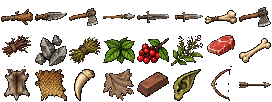
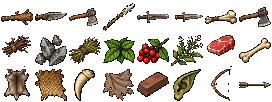
Fogueira guarda ao acender, morte volta sem abertura e lança refeita na escala do herói

Changed region(s): [[0.3529, 0.0294, 0.5, 0.2941]]

diff --git a/js/main.js b/js/main.js
@@ -23,9 +23,13 @@
       const min = Math.round((s.tempo || 0) / 60);
       m.append(botao('Continuar como ' + s.nome, () => continuar(s), 'ir'));
       m.append(el('p', 'nota', (s.titulo ? s.titulo + ' · ' : '') + min + ' min de vida · ' + nomeArea(s.area)));
-      const novo = botao('Nascer de novo', () => { novo.hidden = true; m.append(el('p', 'nota', 'A vida de ' + s.nome + ' acaba aqui. Tem certeza?'), botao('Sim, deixar ' + s.nome + ' para trás', () => { J.apagar(); nascer(); })); });
+      const novo = botao('Nascer de novo', () => { novo.hidden = true; m.append(el('p', 'nota', 'A vida de ' + s.nome + ' acaba aqui. Tem certeza?'), botao('Sim, deixar ' + s.nome + ' para trás', () => { J.apagar(); nascer(viuIntro()); })); });
       m.append(novo);
-    } else m.append(botao('Nascer', nascer, 'ir'));
+    } else if (viuIntro()) {
+      const ult = J.memorias()[0];
+      if (ult) m.append(botao('Acordar como ' + ult.nome, () => acordaComo(ult.nome), 'ir'));
+      m.append(botao(ult ? 'Acordar com outro nome' : 'Nascer', () => nascer(true), ult ? '' : 'ir'), botao('Ver a abertura', () => nascer(false)));
+    } else m.append(botao('Nascer', () => nascer(false), 'ir'));
     const mem = J.memorias(), l = $('memorias'); l.innerHTML = '';
     if (mem.length) { l.append(el('h3', '', 'Os que vieram antes')); for (const x of mem.slice(0, 4)) l.append(el('p', '', x.nome + (x.titulo ? ', ' + x.titulo : '') + ' · ' + Math.max(1, Math.round(x.tempo / 60)) + ' min · ' + x.mortes + ' mortes')); }
   }
@@ -33,13 +37,14 @@
 
   // ---------- nascimento ----------
   let nas = null;
-  function nascer() {
+  const viuIntro = () => { try { return !!localStorage.getItem('sina_intro') || J.memorias().length > 0; } catch (e) { return false; } };
+  function nascer(semIntro) {
     modo = 'nasce'; mostra('nasce'); telaCheia();
     if (window.Som) { Som.ligar(); Som.ambiente('cripta'); Som.musica(null); }
     $('n-pede').hidden = true; $('n-texto').textContent = ''; $('n-img').className = ''; $('n-luz').className = '';
     nas = { t: 0, i: -1, part: [], fim: false };
     requestAnimationFrame(() => { $('n-img').className = 'vai'; $('n-luz').className = 'vai'; });
-    proximaLinha();
+    if (semIntro === true) { nas.fim = true; pedeNome(); } else proximaLinha();
   }
   function proximaLinha() {
     if (!nas || nas.fim) return;
@@ -52,13 +57,18 @@
   function pedeNome() { $('n-texto').textContent = ''; $('n-pede').hidden = false; $('n-nome').value = ''; if (!toque) $('n-nome').focus(); }
   function daNome() {
     const n = $('n-nome').value.trim().slice(0, 16); if (!n) { $('n-nome').classList.add('falta'); $('n-nome').focus(); return; }
+    try { localStorage.setItem('sina_intro', '1'); } catch (e) { /* nada */ }
+    $('n-nome').blur(); acordaComo(n);
+  }
+  // abre os olhos na floresta, sem abertura: quem morre volta por aqui
+  function acordaComo(n) {
+    telaCheia(); fila.length = 0;
     J.save = J.novoSave(n); J.heroi = null; J.colhidos = {};
     J.entrarArea('floresta');
     const h = J.heroi; h.estado = 'nasce'; h.t = 0; h.nq = 0; h.x = h.ultimoSeguro.x;
     D.centrar(); D.escuro = 0.15; modo = 'jogo'; mostra(null); areaVista = null;
-    $('n-nome').blur();
     acorda = { t: 0, i: 0 };
-    vesteRetrato();
+    vesteRetrato(); J.salvar();
   }
   let acorda = null;
   function passoAcorda(dt) {
@@ -132,7 +142,7 @@
         const g = el('div', 'ficha');
         for (const [a, b] of [['Tempo de vida', tempo(s.tempo)], ['Maior título', s.titulo || 'nenhum'], ['Inimigos mortos', tot], ['Coisas colhidas', s.colhido], ['Última arma', C.ARMAS[s.arma].nome], ['Caiu em', nomeArea(s.area)]]) g.append(el('span', '', a), el('em', '', b));
         c.append(g, el('p', 'nota', x.pequeno ? x.pequeno + ' ainda era pequeno demais para continuar. Tudo começa do zero.' : 'Você não deixou filhos. Quem não deixa ninguém começa do zero.'));
-        c.append(botao('Nascer de novo', nascer, 'ir'), botao('Título', titulo));
+        c.append(botao('Acordar no começo', () => acordaComo(s.nome), 'ir'), botao('Acordar com outro nome', () => nascer(true)), botao('Título', titulo));
       } else {
         c.append(el('p', 'nota', s.nome + ' cresceu vendo você lutar. Carrega parte do que você sabia' + (s.lar && s.lar.bau && s.lar.bau.n ? ' e tudo o que estava na mochila.' : ' e um pouco do que estava na mochila.')));
         c.append(botao('Abrir os olhos', () => { J.heroi = null; s.x = null; J.entrarArea(s.area); D.centrar(); areaVista = null; modo = 'jogo'; mostra(null); }, 'ir'));
@@ -154,7 +164,10 @@
     else if (p.tipo === 'fogo') {
       const s = J.save;
       if (!s.fogos[p.o.id] && (s.inv.galho || 0) < 2) { sussurra('Faltam 2 galhos para acender.', 3); return; }
-      if (!s.fogos[p.o.id]) { s.inv.galho -= 2; som('fogo', 0.8); J.faiscas(p.o.x, p.o.y - 14, 26, '#ff9a40', 1.2, 'brasa'); }
+      if (!s.fogos[p.o.id]) {
+        // acender já guarda: se sair do jogo, a vida continua daqui
+        s.inv.galho -= 2; s.fogos[p.o.id] = 1; s.fogo = { area: s.area, id: p.o.id }; som('fogo', 0.8); J.faiscas(p.o.x, p.o.y - 14, 26, '#ff9a40', 1.2, 'brasa'); J.salvar(); guardou();
+      }
       if (s.area === 'lar' && s.lar && s.lar.lenha <= 0) s.lar.lenha = 4;
       if (J.inimigos.some((e) => e.vivo && !['vaga', 'volta', 'caido'].includes(e.estado) && Math.abs(e.x - J.heroi.x) < 320)) { sussurra('Não dá para deitar com eles por perto.', 3); return; }
       dormir(p.o);
@@ -162,6 +175,8 @@
   }
   // ---------- dormir: um momento de calma ----------
   let sono = null, pulaSono = false;
+  let guardT = 0;
+  function guardou() { $('guardou').classList.add('ver'); clearTimeout(guardT); guardT = setTimeout(() => $('guardou').classList.remove('ver'), 2600); }
   function dormir(f) { sono = { f, feito: false, disse: false }; pulaSono = false; solta(); J.comecaSono(f); $('hud').classList.add('calma'); $('toque').hidden = true; }
   function passoDormir(dt) {
     const h = J.heroi; if (!sono || h.estado !== 'dorme') return;
@@ -170,7 +185,7 @@
     if (Math.random() < 0.14) J.poe({ tipo: 'brasa', x: sono.f.x + (Math.random() - 0.5) * 18, y: sono.f.y - 18, vx: (Math.random() - 0.5) * 10, vy: -22 - Math.random() * 22, vida: 1.8, max: 1.8, cor: '#ffb060', tam: 1.4 });
     D.escuro = h.acordando ? Math.min(1, 0.5 + h.t * 0.45) : t < 1.7 ? 1 : Math.max(0.5, 1 - (t - 1.7) * 0.35);
     if ((t > 4.2 || h.acordando) && !sono.feito) { sono.feito = true; J.dormiu(sono.f); }
-    if (J.passoSono(dt, pulaSono)) { const f = sono.f; sono = null; D.escuro = null; $('hud').classList.remove('calma'); if (modo === 'jogo') { abreFogo(f); } }
+    if (J.passoSono(dt, pulaSono)) { const f = sono.f; sono = null; D.escuro = null; $('hud').classList.remove('calma'); guardou(); if (modo === 'jogo') { abreFogo(f); } }
   }
   addEventListener('pointerdown', () => { if (sono && J.heroi && J.heroi.estado === 'dorme') pulaSono = true; });
   let viajando = false;
@@ -464,5 +479,5 @@
   D.iniciar(cv);
   $('carrega').textContent = 'Moldando o barro...';
   D.carregar((k) => { $('carrega').textContent = 'Moldando o barro... ' + Math.round(k * 100) + '%'; }).then(() => { titulo(); requestAnimationFrame(laco); });
-  window.SINA = { dormir, abreFala, J, F, D, C, quadro, abreMenu, voltar, continuar, nascer, daNome, get modo() { return modo; } };
+  window.SINA = { acordaComo, titulo, dormir, abreFala, J, F, D, C, quadro, abreMenu, voltar, continuar, nascer, daNome, get modo() { return modo; } };
 })();

diff --git a/assets/floresta/arte.js b/assets/floresta/arte.js
@@ -1,1 +1,1 @@
-window.ARTE2={"props": {"arvorao": [0, 0, 314, 304], "arvore": [316, 0, 150, 168], "caverna": [468, 0, 179, 132], "arco": [0, 306, 123, 111], "circulo": [125, 306, 173, 100], "pilar": [300, 306, 53, 95], "chao": [0, 419, 580, 86], "totem": [582, 419, 54, 78], "placa": [638, 419, 31, 54], "pedrao": [671, 419, 78, 53], "barro": [0, 507, 74, 48], "lapide": [76, 507, 48, 44], "planta": [126, 507, 48, 40], "samambaia": [176, 507, 53, 39], "frutas": [231, 507, 47, 38], "ninho": [280, 507, 48, 38], "galhada": [330, 507, 47, 37], "cogumelos": [379, 507, 36, 32], "tronco": [417, 507, 80, 31], "ponte": [499, 507, 146, 28], "ossos2": [647, 507, 66, 27], "ossos": [715, 507, 45, 25], "fogo": [0, 557, 43, 21], "pedras": [45, 557, 35, 18]}, "monstros": {"lobo": {"w": 65, "h": 74, "n": 8}, "cobra": {"w": 58, "h": 66, "n": 8}, "zumbi": {"w": 63, "h": 72, "n": 8}, "goblin": {"w": 61, "h": 69, "n": 8}, "alfa": {"w": 98, "h": 112, "n": 8}, "rainha": {"w": 104, "h": 119, "n": 8}, "carcereiro": {"w": 78, "h": 89, "n": 8}, "chefe": {"w": 84, "h": 96, "n": 8}, "goblin_arco": {"w": 72, "h": 53, "n": 8}, "goblin_xama": {"w": 80, "h": 62, "n": 8}, "goblin_porrete": {"w": 70, "h": 80, "n": 8}, "goblin_guerreiro": {"w": 76, "h": 55, "n": 8}, "zumbi_mulher": {"w": 94, "h": 59, "n": 8}, "zumbi_machado": {"w": 72, "h": 67, "n": 8}, "zumbi_lanca": {"w": 132, "h": 66, "n": 8}, "zumbi_inchado": {"w": 68, "h": 74, "n": 8}, "lobo_rubro": {"w": 132, "h": 66, "n": 8}, "lobo_negro": {"w": 82, "h": 48, "n": 8}, "cobra_prata": {"w": 108, "h": 65, "n": 8}, "cobra_coral": {"w": 60, "h": 41, "n": 8}}, "itens": {"porrete": [0, 0, 34, 34], "faca": [34, 0, 34, 34], "machado": [68, 0, 34, 34], "lanca": [102, 0, 34, 34], "espada": [136, 0, 34, 34], "adaga": [170, 0, 34, 34], "osso_clava": [204, 0, 34, 34], "machado_ferro": [238, 0, 34, 34], "galho": [0, 34, 34, 34], "pedra": [34, 34, 34, 34], "fibra": [68, 34, 34, 34], "folha": [102, 34, 34, 34], "fruta": [136, 34, 34, 34], "erva": [170, 34, 34, 34], "carne": [204, 34, 34, 34], "osso": [238, 34, 34, 34], "couro": [0, 68, 34, 34], "pele": [34, 68, 34, 34], "presa": [68, 68, 34, 34], "trapo": [102, 68, 34, 34], "ferro": [136, 68, 34, 34], "orelha": [170, 68, 34, 34], "arco": [204, 68, 34, 34], "flecha": [238, 68, 34, 34]}, "armas": {"porrete": [0, 0, 30, 15], "faca": [32, 0, 17, 5], "machado": [51, 0, 30, 17], "lanca": [83, 0, 54, 11], "espada": [139, 0, 36, 13], "adaga": [177, 0, 21, 7], "osso_clava": [200, 0, 34, 15], "machado_ferro": [236, 0, 34, 21], "arco": [272, 0, 34, 55], "flecha": [308, 0, 26, 5]}, "casa": {"casa5": [0, 0, 173, 154], "casa4": [175, 0, 152, 124], "casa3": [329, 0, 124, 121], "cerca": [455, 0, 61, 102], "casa2": [0, 156, 120, 91], "casa1": [122, 156, 101, 69], "varal": [225, 156, 66, 60], "cepo": [293, 156, 38, 52], "berco": [333, 156, 46, 48], "horta": [381, 156, 79, 40], "estacas": [462, 156, 63, 35], "cama": [0, 249, 80, 35], "lenha": [82, 249, 55, 35]}};
+window.ARTE2={"props": {"arvorao": [0, 0, 314, 304], "arvore": [316, 0, 150, 168], "caverna": [468, 0, 179, 132], "arco": [0, 306, 123, 111], "circulo": [125, 306, 173, 100], "pilar": [300, 306, 53, 95], "chao": [0, 419, 580, 86], "totem": [582, 419, 54, 78], "placa": [638, 419, 31, 54], "pedrao": [671, 419, 78, 53], "barro": [0, 507, 74, 48], "lapide": [76, 507, 48, 44], "planta": [126, 507, 48, 40], "samambaia": [176, 507, 53, 39], "frutas": [231, 507, 47, 38], "ninho": [280, 507, 48, 38], "galhada": [330, 507, 47, 37], "cogumelos": [379, 507, 36, 32], "tronco": [417, 507, 80, 31], "ponte": [499, 507, 146, 28], "ossos2": [647, 507, 66, 27], "ossos": [715, 507, 45, 25], "fogo": [0, 557, 43, 21], "pedras": [45, 557, 35, 18]}, "monstros": {"lobo": {"w": 65, "h": 74, "n": 8}, "cobra": {"w": 58, "h": 66, "n": 8}, "zumbi": {"w": 63, "h": 72, "n": 8}, "goblin": {"w": 61, "h": 69, "n": 8}, "alfa": {"w": 98, "h": 112, "n": 8}, "rainha": {"w": 104, "h": 119, "n": 8}, "carcereiro": {"w": 78, "h": 89, "n": 8}, "chefe": {"w": 84, "h": 96, "n": 8}, "goblin_arco": {"w": 72, "h": 53, "n": 8}, "goblin_xama": {"w": 80, "h": 62, "n": 8}, "goblin_porrete": {"w": 70, "h": 80, "n": 8}, "goblin_guerreiro": {"w": 76, "h": 55, "n": 8}, "zumbi_mulher": {"w": 94, "h": 59, "n": 8}, "zumbi_machado": {"w": 72, "h": 67, "n": 8}, "zumbi_lanca": {"w": 132, "h": 66, "n": 8}, "zumbi_inchado": {"w": 68, "h": 74, "n": 8}, "lobo_rubro": {"w": 132, "h": 66, "n": 8}, "lobo_negro": {"w": 82, "h": 48, "n": 8}, "cobra_prata": {"w": 108, "h": 65, "n": 8}, "cobra_coral": {"w": 60, "h": 41, "n": 8}}, "itens": {"porrete": [0, 0, 34, 34], "faca": [34, 0, 34, 34], "machado": [68, 0, 34, 34], "lanca": [102, 0, 34, 34], "espada": [136, 0, 34, 34], "adaga": [170, 0, 34, 34], "osso_clava": [204, 0, 34, 34], "machado_ferro": [238, 0, 34, 34], "galho": [0, 34, 34, 34], "pedra": [34, 34, 34, 34], "fibra": [68, 34, 34, 34], "folha": [102, 34, 34, 34], "fruta": [136, 34, 34, 34], "erva": [170, 34, 34, 34], "carne": [204, 34, 34, 34], "osso": [238, 34, 34, 34], "couro": [0, 68, 34, 34], "pele": [34, 68, 34, 34], "presa": [68, 68, 34, 34], "trapo": [102, 68, 34, 34], "ferro": [136, 68, 34, 34], "orelha": [170, 68, 34, 34], "arco": [204, 68, 34, 34], "flecha": [238, 68, 34, 34]}, "armas": {"porrete": [0, 0, 30, 15], "faca": [32, 0, 17, 5], "machado": [51, 0, 30, 17], "lanca": [83, 0, 46, 11], "espada": [139, 0, 36, 13], "adaga": [177, 0, 21, 7], "osso_clava": [200, 0, 34, 15], "machado_ferro": [236, 0, 34, 21], "arco": [272, 0, 34, 55], "flecha": [308, 0, 26, 5]}, "casa": {"casa5": [0, 0, 173, 154], "casa4": [175, 0, 152, 124], "casa3": [329, 0, 124, 121], "cerca": [455, 0, 61, 102], "casa2": [0, 156, 120, 91], "casa1": [122, 156, 101, 69], "varal": [225, 156, 66, 60], "cepo": [293, 156, 38, 52], "berco": [333, 156, 46, 48], "horta": [381, 156, 79, 40], "estacas": [462, 156, 63, 35], "cama": [0, 249, 80, 35], "lenha": [82, 249, 55, 35]}};

diff --git a/js/desenho.js b/js/desenho.js
@@ -10,7 +10,7 @@
   const cam = (D.cam = { x: 0, y: 0, olha: 0 });
   let tempo = 0;
   const img = {}; // nome -> imagem
-  const carregaImg = (src) => new Promise((ok) => { const i = new Image(); i.onload = () => ok(i); i.onerror = () => { console.warn('faltou', src); ok(null); }; i.src = src + '?v=5'; });
+  const carregaImg = (src) => new Promise((ok) => { const i = new Image(); i.onload = () => ok(i); i.onerror = () => { console.warn('faltou', src); ok(null); }; i.src = src + '?v=7'; });
 
   D.iniciar = function (canvas) {
     cv = canvas; ctx = cv.getContext('2d');
@@ -191,6 +191,17 @@
     cima: [[32, 53, 140, 1], [58, 18, -84], [63, 28, -50]],
     baixo: [[57, 64, 88]], dor: [[56, 45, 70], [56, 45, 70], [55, 45, 70]],
   };
+  // a lança tem jeito próprio: em pé ao lado do corpo, deitada na corrida, reta na estocada (a mão corre pelo cabo)
+  const MAO_LANCA = {
+    parado: [[63, 56, -84, 0, 24], [63, 56, -84, 0, 24], [63, 56, -84, 0, 24], [63, 56, -84, 0, 24]],
+    correr: [[65, 47, -12, 0, 20], [68, 42, -14, 0, 20], [68, 41, -15, 0, 20], [67, 45, -13, 0, 20], [62, 48, -11, 0, 20], [69, 43, -13, 0, 20], [71, 41, -15, 0, 20], [70, 44, -14, 0, 20]],
+    golpe1: [[38, 41, -4, 1, 26], [34, 40, -3, 1, 28], [78, 38, 1, 0, 12], [69, 41, 3, 0, 16]],
+    golpe2: [[36, 46, -10, 1, 26], [36, 18, -24, 0, 18], [33, 20, -60, 0, 20]],
+    golpe3: [[27, 21, -118, 1, 18], [26, 18, -100, 1, 18], [68, 81, 14, 0, 14], [74, 81, 10, 0, 14]],
+    pulo: [[68, 51, -26, 0, 20], [63, 24, -62, 0, 20], [66, 27, -56, 0, 20], [66, 34, -44, 0, 20], [57, 40, -30, 0, 20], [40, 50, -20, 1, 22]],
+    cima: [[40, 53, -84, 1, 26], [58, 18, -88, 0, 12], [63, 28, -84, 0, 16]],
+    baixo: [[57, 60, 89, 0, 14]], dor: [[56, 48, 40, 0, 20], [56, 48, 40, 0, 20], [55, 48, 40, 0, 20]],
+  };
   const PE = 85;
   // qual pose mostrar agora
   function pose(h) {
@@ -211,6 +222,10 @@
       case 'golpe':
         if (h.dirGolpe === 'cima') return ['cima', k < 0.22 ? 0 : k < 0.7 ? 1 : 2];
         if (h.dirGolpe === 'baixo') return ['baixo', 0];
+        if (h.ficha.arma.estoca) { // estocadas: a segunda recolhe menos, a terceira entra mais
+          if (h.combo === 2) return ['golpe1', k < 0.08 ? 3 : k < 0.2 ? 1 : k < 0.72 ? 2 : 3];
+          return ['golpe1', k < (h.combo === 3 ? 0.22 : 0.1) ? 0 : k < (h.combo === 3 ? 0.34 : 0.24) ? 1 : k < 0.76 ? 2 : 3];
+        }
         if (h.combo === 2) return ['golpe2', k < 0.24 ? 0 : k < 0.72 ? 1 : 2];
         if (h.combo === 3) return ['golpe3', k < 0.18 ? 0 : k < 0.32 ? 1 : k < 0.78 ? 2 : 3];
         return ['golpe1', k < 0.1 ? 0 : k < 0.24 ? 1 : k < 0.72 ? 2 : 3];
@@ -225,8 +240,8 @@
     const k = a[0] + Math.min(a[1] - 1, n), sx = (k % B.cols) * B.q, sy = Math.floor(k / B.cols) * B.q;
     q.save(); q.translate(Math.round(x), Math.round(y)); q.scale((o && o.dir) || 1, 1);
     if (o && o.sx) q.scale(o.sx, o.sy);
-    const arma = o && o.arma, m = arma && MAO[anim] && MAO[anim][Math.min(MAO[anim].length - 1, n)];
-    const poeArma = () => { const p = A2.armas && A2.armas[arma]; if (!p) return; q.save(); q.translate(m[0] - 50, m[1] - PE); q.rotate(((m[2] + (o.giro || 0)) * Math.PI) / 180); const pega = arma === 'lanca' ? 18 : arma === 'machado' || arma === 'machado_ferro' ? 8 : 5; q.drawImage(img.armas, p[0], p[1], p[2], p[3], -pega, -Math.round(arma === 'machado' || arma === 'machado_ferro' ? p[3] * 0.4 : p[3] / 2), p[2], p[3]); q.restore(); };
+    const arma = o && o.arma, tab = arma === 'lanca' ? MAO_LANCA : MAO, m = arma && tab[anim] && tab[anim][Math.min(tab[anim].length - 1, n)];
+    const poeArma = () => { const p = A2.armas && A2.armas[arma]; if (!p) return; q.save(); q.translate(m[0] - 50, m[1] - PE); q.rotate(((m[2] + (o.giro || 0)) * Math.PI) / 180); const pega = arma === 'lanca' ? m[4] : arma === 'machado' || arma === 'machado_ferro' ? 8 : 5; q.drawImage(img.armas, p[0], p[1], p[2], p[3], -pega, -Math.round(arma === 'machado' || arma === 'machado_ferro' ? p[3] * 0.4 : p[3] / 2), p[2], p[3]); q.restore(); };
     if (m && m[3]) poeArma();
     q.drawImage((o && o.sil ? silhueta(im, o.sil, 'h' + roupa) : im), sx, sy, B.q, B.q, -50, -PE, B.q, B.q);
     if (m && !m[3]) poeArma();
@@ -491,7 +506,7 @@
     quadroGente('mulher', a, n, H.x, H.y + 1, { dir: H.dir, sy: deita ? 1 + Math.sin(tempo * 1.5 + 1) * 0.025 : 1, branco: H.tDor > 0.2 ? 0.7 : 0, a: H.inv > 0 && H.tDor <= 0 && Math.floor(H.inv * 16) % 2 ? 0.6 : 1 });
     brilhos.push([H.x, H.y - 30, 70, '255,214,170', 0.35]);
     const D2 = J.save.hum;
-    if (D2 && D2.lanca && ['parado', 'correr'].includes(a) && A2.armas.lanca) { const p = A2.armas.lanca; g.save(); g.translate(H.x + H.dir * 6, H.y - 30); g.scale(H.dir, 1); g.rotate(-1.2); g.drawImage(img.armas, p[0], p[1], p[2], p[3], -18, -p[3] / 2, p[2], p[3]); g.restore(); }
+    if (D2 && D2.lanca && ['parado', 'correr'].includes(a) && A2.armas.lanca) { const p = A2.armas.lanca; g.save(); g.translate(Math.round(H.x + H.dir * 11), Math.round(H.y - 29)); g.scale(H.dir, 1); g.rotate(a === 'correr' ? -0.3 : -1.42); g.drawImage(img.armas, p[0], p[1], p[2], p[3], -22, -Math.round(p[3] / 2), p[2], p[3]); g.restore(); }
     if (H.caida) { g.fillStyle = '#0a0808d0'; g.fillRect(H.x - 18, H.y - 46, 36, 4); g.fillStyle = '#ff9a6a'; g.fillRect(H.x - 17, H.y - 45, 34 * Math.max(0, H.tCaida / 25), 2); }
     else if (H.hp < H.hpMax) { g.fillStyle = '#0a0808d0'; g.fillRect(H.x - 14, H.y - 66, 28, 4); g.fillStyle = '#d8a06a'; g.fillRect(H.x - 13, H.y - 65, 26 * (H.hp / H.hpMax), 2); }
   }

diff --git a/index.html b/index.html
@@ -7,7 +7,7 @@
 <link rel="preconnect" href="https://fonts.googleapis.com">
 <link rel="preconnect" href="https://fonts.gstatic.com" crossorigin>
 <link rel="stylesheet" href="https://fonts.googleapis.com/css2?family=Cinzel:wght@500;700;900&family=Crimson+Pro:ital,wght@0,400;0,600;1,400&display=swap">
-<link rel="stylesheet" href="css/jogo.css?v=6">
+<link rel="stylesheet" href="css/jogo.css?v=7">
 </head>
 <body>
 <canvas id="c"></canvas>
@@ -28,6 +28,7 @@
   <button id="h-mochila" title="Mochila (I)">Mochila</button>
   <div id="chefe" hidden><div id="chefe-nome"></div><div class="barra" id="b-chefe"><i></i><u></u></div></div>
   <div id="usar" hidden></div>
+  <div id="guardou">Jogo guardado</div>
   <div id="sussurro"></div>
   <div id="area"></div>
   <div id="conquista"></div>
@@ -94,17 +95,17 @@
 </div>
 <div id="veu"></div>
 
-<script src="assets/barro/barro.js?v=6"></script>
-<script src="assets/barro/gente.js?v=6"></script>
-<script src="assets/floresta/arte.js?v=6"></script>
-<script src="js/som.js?v=6"></script>
-<script src="js/dados.js?v=6"></script>
-<script src="js/fase.js?v=6"></script>
-<script src="js/motor.js?v=6"></script>
-<script src="js/bando.js?v=6"></script>
-<script src="js/donos.js?v=6"></script>
-<script src="js/lar.js?v=6"></script>
-<script src="js/desenho.js?v=6"></script>
-<script src="js/main.js?v=6"></script>
+<script src="assets/barro/barro.js?v=7"></script>
+<script src="assets/barro/gente.js?v=7"></script>
+<script src="assets/floresta/arte.js?v=7"></script>
+<script src="js/som.js?v=7"></script>
+<script src="js/dados.js?v=7"></script>
+<script src="js/fase.js?v=7"></script>
+<script src="js/motor.js?v=7"></script>
+<script src="js/bando.js?v=7"></script>
+<script src="js/donos.js?v=7"></script>
+<script src="js/lar.js?v=7"></script>
+<script src="js/desenho.js?v=7"></script>
+<script src="js/main.js?v=7"></script>
 </body>
 </html>

diff --git a/js/dados.js b/js/dados.js
@@ -17,7 +17,7 @@
     porrete: { nome: 'Porrete de galho', dano: 13, alcance: 42, altura: 48, tempo: 0.36, custo: 10, quebra: 1.5, per: 'porrete', desc: 'Pesado e torto. Abala quem leva.' },
     faca: { nome: 'Faca de pedra', dano: 11, alcance: 32, altura: 34, tempo: 0.22, custo: 6, quebra: 0.6, per: 'lamina', critico: 0.18, desc: 'Rápida. Às vezes acha a carne certa.' },
     machado: { nome: 'Machado de pedra', dano: 20, alcance: 44, altura: 52, tempo: 0.46, custo: 15, quebra: 2, per: 'machado', desc: 'Lento, mas parte osso.' },
-    lanca: { nome: 'Lança de pedra', dano: 15, alcance: 66, altura: 22, tempo: 0.36, custo: 11, quebra: 1, per: 'lanca', estoca: true, desc: 'Mantém a fome dos outros longe.' },
+    lanca: { nome: 'Lança de pedra', dano: 15, alcance: 62, altura: 22, tempo: 0.36, custo: 11, quebra: 1, per: 'lanca', estoca: true, desc: 'Mantém a fome dos outros longe.' },
     arco: { nome: 'Arco de galho', dano: 17, alcance: 30, altura: 30, tempo: 0.5, custo: 10, quebra: 0.8, per: 'arco', tiro: true, desc: 'Gasta flechas. Segure para mirar mais forte.' },
     osso_clava: { nome: 'Clava de osso', dano: 22, alcance: 46, altura: 50, tempo: 0.4, custo: 13, quebra: 2, per: 'porrete', desc: 'O osso de um bate no outro.' },
     adaga: { nome: 'Adaga de ferro', dano: 18, alcance: 34, altura: 34, tempo: 0.2, custo: 6, quebra: 0.7, per: 'lamina', critico: 0.28, desc: 'Ferro achado, fio novo.' },

diff --git a/css/jogo.css b/css/jogo.css
@@ -160,3 +160,8 @@ button.ir:hover { background: #442a14; }
 #hud.calma > *:not(#sussurro) { opacity: 0; transition: opacity 1.2s; }
 #bt-nome { font: 600 22px 'Crimson Pro', serif; text-align: center; color: #ffe9c8; background: #0b1010; border: 1px solid #7a6a48; padding: 9px 12px; margin: 12px 0; width: 100%; user-select: text; -webkit-user-select: text; }
 #fg-nota { font-style: italic; }
+#guardou { position: absolute; left: 22px; bottom: 18px; font: 500 14px Cinzel, serif; color: #ffcf8a; text-shadow: 0 1px 3px #000, 0 0 8px #000; opacity: 0; transition: opacity .6s; }
+#guardou::before { content: ''; display: inline-block; width: 8px; height: 8px; margin-right: 8px; background: #ff9a40; box-shadow: 0 0 10px #ff8a30; transform: rotate(45deg); }
+#guardou.ver { opacity: 1; }
+body.toque #guardou { left: 50%; bottom: auto; top: 10px; transform: translateX(-50%); }
+#hud.calma > #guardou { opacity: 0; }

diff --git a/tools/lateral-lanca.py b/tools/lateral-lanca.py
@@ -1,0 +1,71 @@
+"""Desenha à mão a lança de pedra na escala do herói e troca no atlas das armas e no ícone.
+     python tools/lateral-lanca.py      (rodar depois de lateral-arte.py itens)"""
+import json
+from pathlib import Path
+import numpy as np
+from PIL import Image
+
+D = Path(__file__).resolve().parent.parent / "assets" / "floresta"
+W, H, Y = 46, 11, 5
+P = {".": (0, 0, 0, 0), "c": (186, 132, 84, 255), "m": (140, 92, 56, 255), "e": (92, 58, 36, 255), "f": (206, 178, 116, 255), "g": (140, 112, 64, 255),
+     "1": (226, 230, 224, 255), "2": (168, 176, 172, 255), "3": (112, 122, 120, 255), "4": (70, 78, 78, 255)}
+im = Image.new("RGBA", (W, H))
+px = im.load()
+rng = np.random.default_rng(3)
+# cabo: um galho fino, quase reto, com dois nós
+for x in range(1, 34):
+    dy = 1 if x < 9 else 0
+    px[x, Y + dy - 1] = P["c"] if rng.random() < .62 else P["m"]
+    px[x, Y + dy] = P["m"] if rng.random() < .5 else P["e"]
+for nx in (12, 23):
+    px[nx, Y - 2] = P["m"]
+    px[nx, Y - 1] = P["e"]
+    px[nx + 1, Y - 1] = P["e"]
+px[1, Y] = P["e"]
+# empunhadura de fibra, onde a mão pega
+for x in range(14, 20):
+    px[x, Y - 1] = P["f"] if x % 2 else P["g"]
+    px[x, Y] = P["g"]
+# amarração da ponta
+for x in range(29, 35):
+    for dy in (-2, -1, 0, 1):
+        if dy in (-2, 1) and x in (29, 34):
+            continue
+        px[x, Y + dy] = P["f"] if (x + dy) % 3 else P["g"]
+# ponta de pedra lascada, em folha
+meia = [1, 2, 3, 3, 3, 2, 2, 2, 1, 1, 1]
+for i, h in enumerate(meia):
+    x = 34 + i
+    for dy in range(-h, h):
+        k = (dy + h) / (2 * h)
+        px[x, Y + dy] = P["1"] if k < .3 else P["2"] if k < .55 else P["3"] if k < .8 else P["4"]
+for x, y in ((37, Y - 1), (39, Y), (36, Y + 1), (41, Y)):   # lascas
+    px[x, y] = P["3"]
+# contorno
+a = np.asarray(im).copy()
+al = a[..., 3] > 0
+v = np.zeros_like(al)
+v[1:] |= al[:-1]; v[:-1] |= al[1:]; v[:, 1:] |= al[:, :-1]; v[:, :-1] |= al[:, 1:]
+a[v & ~al] = (12, 10, 9, 255)
+im = Image.fromarray(a, "RGBA")
+
+meta = json.loads((D / "meta.json").read_text())
+at = Image.open(D / "armas.webp").convert("RGBA")
+x, y = meta["armas"]["lanca"][:2]
+at.paste(Image.new("RGBA", (54, 11)), (x, y))
+at.paste(im, (x, y))
+at.save(D / "armas.webp", lossless=True, method=6)
+meta["armas"]["lanca"] = [x, y, W, H]
+it = Image.open(D / "itens.webp").convert("RGBA")
+ix, iy, iw, ih = meta["itens"]["lanca"]
+it.paste(Image.new("RGBA", (iw, ih)), (ix, iy))
+ic = im.rotate(38, Image.NEAREST, expand=True)
+ic = ic.crop(ic.getbbox())
+e = min(1, 32 / max(ic.size))
+ic = ic.resize((round(ic.width * e), round(ic.height * e)), Image.NEAREST)
+it.paste(ic, (ix + (iw - ic.width) // 2, iy + (ih - ic.height) // 2))
+it.save(D / "itens.webp", lossless=True, method=6)
+(D / "meta.json").write_text(json.dumps(meta))
+(D / "arte.js").write_text("window.ARTE2=" + json.dumps(meta) + ";\n", encoding="utf-8")
+im.resize((W * 10, H * 10), Image.NEAREST).save(D.parent.parent.parent / "arte-ia" / "lateral" / "_p.png")
+print("lança", W, H)

diff --git a/README.md b/README.md
@@ -20,7 +20,7 @@ Um deus molda o primeiro homem do barro e vai embora. O jogador dá o nome. Ele 
 
 ## Regras
 
-- **Morreu, começou do zero.** Com um filho crescido (cinco dias), o jogador continua nele com 65% das perícias; com baú, herda a mochila inteira.
+- **Morreu, começou do zero (sem rever a abertura).** Acender ou dormir na fogueira guarda o jogo. Com um filho crescido (cinco dias), o jogador continua nele com 65% das perícias; com baú, herda a mochila inteira.
 - **Perícias crescem com o uso:** armas, magia, corpo, fôlego, pernas, coleta, ofício. Ofício libera receitas melhores.
 - **Títulos por espécie:** 25, 100 e 250 mortes. Em 100 vem uma habilidade (Caçador de Lobos corre mais e esquiva barato, e assim por diante).
 - **Fome** cai com o tempo; em zero, tira vida. Comer com Q. Cobras envenenam; erva e curativo limpam.
